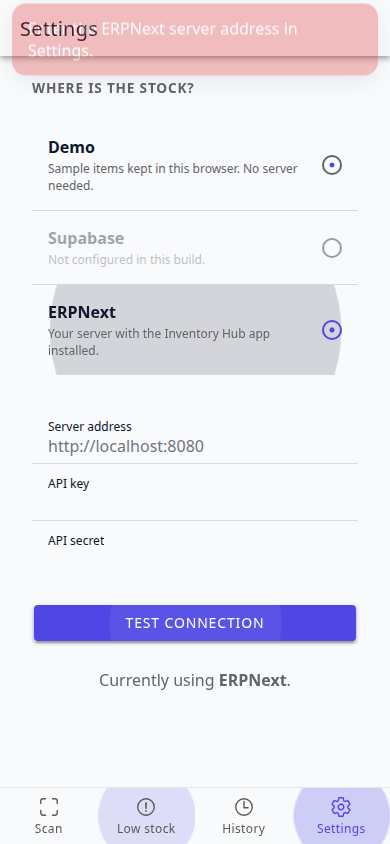
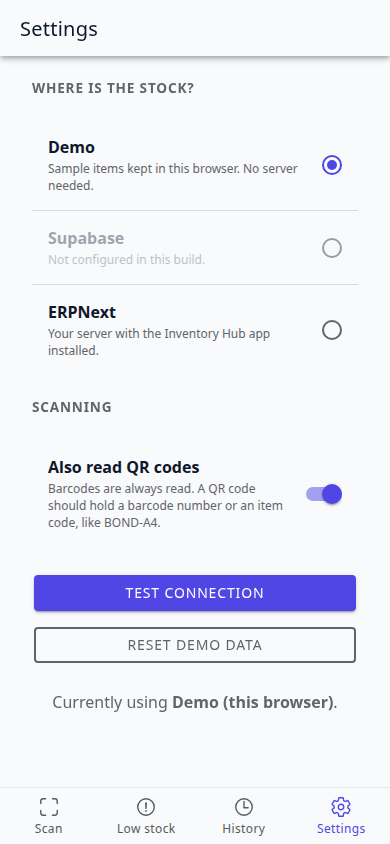
Add an opt-in "Also read QR codes" setting, with a printable QR sheet and tests

diff --git a/src/components/Scanner.tsx b/src/components/Scanner.tsx
@@ -1,8 +1,10 @@
 import { IonButton, IonIcon } from "@ionic/react";
 import { BrowserMultiFormatReader, type IScannerControls } from "@zxing/browser";
-import { BarcodeFormat, DecodeHintType } from "@zxing/library";
+import { DecodeHintType } from "@zxing/library";
 import { cameraOutline } from "ionicons/icons";
 import { useEffect, useRef, useState } from "react";
+import { scanFormats } from "../lib/formats";
+import "../lib/zxingQuiet";
 
 // A live camera preview that reads barcodes with ZXing (pure JavaScript, so it works in any
 // browser, including iPhone Safari, where the native BarcodeDetector API doesn't exist).
@@ -17,26 +19,11 @@ const MESSAGES: Record<Exclude<Status, "scanning">, string> = {
   error: "The camera couldn't be started.",
 };
 
-// The formats products carry. Restricting them makes decoding faster and avoids false reads
-// (QR codes are left out on purpose: this app reads product barcodes).
-const HINTS = new Map<DecodeHintType, unknown>([
-  [
-    DecodeHintType.POSSIBLE_FORMATS,
-    [
-      BarcodeFormat.EAN_13,
-      BarcodeFormat.EAN_8,
-      BarcodeFormat.UPC_A,
-      BarcodeFormat.UPC_E,
-      BarcodeFormat.CODE_128,
-      BarcodeFormat.CODE_39,
-    ],
-  ],
-  [DecodeHintType.TRY_HARDER, true],
-]);
-
 const SAME_CODE_COOLDOWN_MS = 2500;
 
 interface Props {
+  /** Also look for QR codes (they hold a barcode number or an item code). */
+  readQr?: boolean;
   /** Only runs the camera while true, so it is off when the tab isn't on screen. */
   active: boolean;
   onDetected: (code: string) => void;
@@ -49,7 +36,7 @@ function classify(error: unknown): Status {
   return "error";
 }
 
-export default function Scanner({ active, onDetected }: Props) {
+export default function Scanner({ active, readQr = false, onDetected }: Props) {
   const videoRef = useRef<HTMLVideoElement>(null);
   const [status, setStatus] = useState<Status>("starting");
   const [attempt, setAttempt] = useState(0);
@@ -72,7 +59,11 @@ export default function Scanner({ active, onDetected }: Props) {
     let last = { code: "", at: 0 };
     setStatus("starting");
 
-    const reader = new BrowserMultiFormatReader(HINTS, { delayBetweenScanAttempts: 120 });
+    const hints = new Map<DecodeHintType, unknown>([
+      [DecodeHintType.POSSIBLE_FORMATS, scanFormats(readQr)],
+      [DecodeHintType.TRY_HARDER, true],
+    ]);
+    const reader = new BrowserMultiFormatReader(hints, { delayBetweenScanAttempts: 120 });
     reader
       .decodeFromConstraints({ video: { facingMode: { ideal: "environment" } } }, videoRef.current!, (result) => {
         if (!result) return; // called on every frame that has no barcode in it
@@ -97,7 +88,7 @@ export default function Scanner({ active, onDetected }: Props) {
       cancelled = true;
       controls?.stop();
     };
-  }, [active, attempt]);
+  }, [active, attempt, readQr]);
 
   return (
     <div className="scanner">
@@ -119,7 +110,7 @@ export default function Scanner({ active, onDetected }: Props) {
         )}
       </div>
       <p className="scanner-status" data-testid="scanner-status" data-status={status} aria-live="polite">
-        {status === "scanning" ? "Point the camera at a barcode" : MESSAGES[status]}
+        {status === "scanning" ? `Point the camera at a barcode${readQr ? " or QR code" : ""}` : MESSAGES[status]}
       </p>
     </div>
   );

diff --git a/src/pages/SettingsPage.tsx b/src/pages/SettingsPage.tsx
@@ -1,4 +1,4 @@
-import { IonButton, IonInput, IonItem, IonList, IonRadio, IonRadioGroup } from "@ionic/react";
+import { IonButton, IonInput, IonItem, IonList, IonRadio, IonRadioGroup, IonToggle } from "@ionic/react";
 import { useState } from "react";
 import Page from "../components/Page";
 import { createBackend, supabaseAvailable } from "../lib/backends";
@@ -105,6 +105,23 @@ export default function SettingsPage() {
           </IonItem>
         </IonList>
       )}
+
+      <h3 className="section-title">Scanning</h3>
+      <IonList inset lines="full">
+        <IonItem>
+          <IonToggle
+            checked={settings.qr}
+            justify="space-between"
+            data-testid="qr-toggle"
+            onIonChange={(e) => saveSettings({ ...settings, qr: e.detail.checked })}
+          >
+            <div className="radio-label">
+              <strong>Also read QR codes</strong>
+              <small>Barcodes are always read. A QR code should hold a barcode number or an item code, like BOND-A4.</small>
+            </div>
+          </IonToggle>
+        </IonItem>
+      </IonList>
 
       <div className="settings-actions">
         <IonButton expand="block" onClick={testConnection} disabled={testing} data-testid="test-connection">

diff --git a/src/lib/settings.ts b/src/lib/settings.ts
@@ -6,11 +6,13 @@ import type { BackendId } from "./types";
 
 export interface Settings {
   backend: BackendId;
+  /** Also read QR codes with the camera (product barcodes are always read). */
+  qr: boolean;
   erp: { url: string; key: string; secret: string };
 }
 
 const KEY = "stockscan:settings";
-const DEFAULTS: Settings = { backend: defaultBackend, erp: { url: "", key: "", secret: "" } };
+const DEFAULTS: Settings = { backend: defaultBackend, qr: false, erp: { url: "", key: "", secret: "" } };
 
 const listeners = new Set<() => void>();
 let cachedRaw: string | null | undefined;
@@ -30,7 +32,7 @@ function parse(raw: string | null): Settings {
     const value = JSON.parse(raw) as Partial<Settings>;
     // A saved "supabase" choice is meaningless in a build that has no Supabase credentials.
     const backend = value.backend === "supabase" && !supabaseAvailable ? defaultBackend : value.backend;
-    return { backend: backend ?? DEFAULTS.backend, erp: { ...DEFAULTS.erp, ...value.erp } };
+    return { backend: backend ?? DEFAULTS.backend, qr: value.qr === true, erp: { ...DEFAULTS.erp, ...value.erp } };
   } catch {
     return DEFAULTS;
   }

diff --git a/src/pages/ScanPage.tsx b/src/pages/ScanPage.tsx
@@ -7,11 +7,13 @@ import Scanner from "../components/Scanner";
 import { addHistory } from "../lib/history";
 import { beep } from "../lib/sound";
 import { NotFoundError, type ItemInfo } from "../lib/types";
+import { useSettings } from "../lib/settings";
 import { useBackend } from "../lib/useBackend";
 import { useIsActive } from "../lib/useIsActive";
 
 export default function ScanPage() {
   const backend = useBackend();
+  const { qr } = useSettings();
   const [item, setItem] = useState<ItemInfo | null>(null);
   const [missing, setMissing] = useState<string | null>(null);
   const [error, setError] = useState<string | null>(null);
@@ -63,7 +65,7 @@ export default function ScanPage() {
 
   return (
     <Page title="Scan">
-      <Scanner active={cameraOn} onDetected={lookup} />
+      <Scanner active={cameraOn} readQr={qr} onDetected={lookup} />
 
       <div className="manual">
         <IonInput

diff --git a/src/lib/formats.test.ts b/src/lib/formats.test.ts
@@ -1,0 +1,22 @@
+import { BarcodeFormat } from "@zxing/library";
+import { describe, expect, it } from "vitest";
+import { PRODUCT_FORMATS, scanFormats } from "./formats";
+
+describe("scanFormats", () => {
+  it("reads product barcodes only by default", () => {
+    expect(scanFormats(false)).toEqual(PRODUCT_FORMATS);
+    expect(scanFormats(false)).not.toContain(BarcodeFormat.QR_CODE);
+    expect(scanFormats(false)).toContain(BarcodeFormat.EAN_13);
+  });
+
+  it("adds QR codes on top of the product barcodes when asked", () => {
+    const formats = scanFormats(true);
+    expect(formats).toContain(BarcodeFormat.QR_CODE);
+    for (const f of PRODUCT_FORMATS) expect(formats).toContain(f);
+  });
+
+  it("doesn't change the default list when QR is on", () => {
+    scanFormats(true);
+    expect(PRODUCT_FORMATS).not.toContain(BarcodeFormat.QR_CODE);
+  });
+});

diff --git a/src/lib/formats.ts b/src/lib/formats.ts
@@ -1,0 +1,19 @@
+import { BarcodeFormat } from "@zxing/library";
+
+// The formats products carry. Restricting them makes decoding faster and avoids false reads.
+export const PRODUCT_FORMATS: BarcodeFormat[] = [
+  BarcodeFormat.EAN_13,
+  BarcodeFormat.EAN_8,
+  BarcodeFormat.UPC_A,
+  BarcodeFormat.UPC_E,
+  BarcodeFormat.CODE_128,
+  BarcodeFormat.CODE_39,
+];
+
+/**
+ * What the camera should look for. QR codes are opt-in (Settings > "Also read QR codes"): looking for
+ * them makes every frame slower to decode, and ZXing's QR reader logs a warning on frames without one.
+ */
+export function scanFormats(readQr: boolean): BarcodeFormat[] {
+  return readQr ? [...PRODUCT_FORMATS, BarcodeFormat.QR_CODE] : PRODUCT_FORMATS;
+}

diff --git a/src/lib/zxingQuiet.ts b/src/lib/zxingQuiet.ts
@@ -1,0 +1,10 @@
+// ZXing's MultiFormatReader prints "MultiFormatReader: non-ReaderException from reader" for every camera
+// frame that has no QR code in it. It's a library quirk (its exception classes fail `instanceof` after
+// being compiled to ES5), not a real problem, but at several frames a second it buries the console.
+// Only that one message is dropped; every other warning still goes through.
+const original = console.warn;
+
+console.warn = (...args: unknown[]) => {
+  if (typeof args[0] === "string" && args[0].startsWith("MultiFormatReader: non-ReaderException")) return;
+  original.apply(console, args);
+};

diff --git a/e2e/make-camera-videos.py b/e2e/make-camera-videos.py
@@ -3,7 +3,7 @@
 Each video is a short MJPEG clip of one EAN-13 barcode held in front of a beige background, like
 someone holding a product up to the camera.
 
-    pip install python-barcode pillow
+    pip install python-barcode pillow qrcode
     python3 e2e/make-camera-videos.py
 """
 
@@ -54,6 +54,29 @@ def make_video(name: str, digits: str) -> None:
     print("wrote", OUT / f"{name}.mjpeg")
 
 
+def make_qr_video(name: str, text: str) -> None:
+    """A QR code holding an item code, for the "Also read QR codes" test."""
+    import qrcode
+
+    width, height = 640, 480
+    qr = qrcode.QRCode(error_correction=qrcode.constants.ERROR_CORRECT_M, box_size=9, border=4)
+    qr.add_data(text)
+    qr.make(fit=True)
+    code = qr.make_image(fill_color="black", back_color="white").convert("RGB")
+
+    random.seed(2)
+    with open(OUT / f"{name}.mjpeg", "wb") as out:
+        for _ in range(20):
+            frame = Image.new("RGB", (width, height), (176, 168, 152))
+            jitter = (random.randint(-3, 3), random.randint(-3, 3))
+            frame.paste(code, ((width - code.width) // 2 + jitter[0], (height - code.height) // 2 + jitter[1]))
+            jpeg = io.BytesIO()
+            frame.filter(ImageFilter.GaussianBlur(0.4)).save(jpeg, "JPEG", quality=90)
+            out.write(jpeg.getvalue())
+    print("wrote", OUT / f"{name}.mjpeg")
+
+
 if __name__ == "__main__":
     for video, digits in VIDEOS.items():
         make_video(video, digits)
+    make_qr_video("qr", "BOND-A4")  # a QR code holding the item code

diff --git a/README.md b/README.md
@@ -20,7 +20,7 @@ The demo catalogue is the same 12 items, barcodes and quantities in all three, s
 
 ## Features
 
-- **Camera scanning** with [ZXing](https://github.com/zxing-js/library), so it works in any browser (it doesn't depend on the `BarcodeDetector` API, which iPhone Safari lacks). Reads EAN-13, EAN-8, UPC-A, UPC-E, Code 128 and Code 39. Beeps and buzzes on a read.
+- **Camera scanning** with [ZXing](https://github.com/zxing-js/library), so it works in any browser (it doesn't depend on the `BarcodeDetector` API, which iPhone Safari lacks). Reads EAN-13, EAN-8, UPC-A, UPC-E, Code 128 and Code 39, and **QR codes too if you turn them on** in Settings ("Also read QR codes"; off by default). Beeps and buzzes on a read.
 - **Hardware scanners work too.** A USB or Bluetooth scanner types digits and presses Enter, so the type-a-barcode box handles it.
 - **Add or remove stock** per warehouse with a stepper. The app refuses to remove more than is on hand.
 - **Low-stock tab** with pull-to-refresh, worst first.
@@ -49,6 +49,8 @@ A printable sheet with all 12 barcodes is in [`docs/demo-barcodes.png`](docs/dem
 | Alcohol 70% 500ml | `4800010000122` (3 left, low) |
 
 Anything else shows "No match".
+
+**QR codes:** turn on *Settings > Also read QR codes*, then scan the codes on [`docs/demo-qr.png`](docs/demo-qr.png). A QR code should hold a barcode number or an item code (these hold the item code, like `BOND-A4`); a QR with anything else in it, like a web address, shows "No match".
 
 ## Use Supabase (shared online demo)
 
@@ -90,7 +92,7 @@ It's a static site, so it deploys anywhere. On [Vercel](https://vercel.com): imp
 ## Tests
 
 ```bash
-npm test          # 27 unit tests
+npm test          # 30 unit tests
 npm run typecheck
 ```
 
@@ -101,14 +103,14 @@ The unit tests cover the three backends (with a fake `fetch` and a fake Supabase
 `npm run e2e` drives the built app in a real browser. Chromium is started with a **fake camera** that plays a video of a barcode, so the whole flow runs for real: camera, decoding, lookup, stock change, alerts, history, PWA.
 
 ```bash
-pip install python-barcode pillow     # for the fake camera videos
+pip install python-barcode pillow qrcode   # for the fake camera videos
 python3 e2e/make-camera-videos.py     # once
 npx playwright install chromium       # once
 npm run build && npm run preview      # terminal 1
 npm run e2e                           # terminal 2
 ```
 
-It checks 19 things, among them: the camera reads a barcode and shows the item; removing more than is on hand is refused; the camera switches off when you leave the Scan tab and back on when you return; a hardware scanner (typing + Enter) works; changes survive a reload; with no camera the app says so and manual entry still works. The SQL in `supabase/schema.sql` was tested separately against PostgreSQL, including ten parallel removals of a three-unit item (exactly three succeed).
+It checks 23 things, among them: the camera reads a barcode and shows the item; removing more than is on hand is refused; the camera switches off when you leave the Scan tab and back on when you return; a hardware scanner (typing + Enter) works; QR codes are ignored until switched on, then read, without breaking ordinary barcodes; changes survive a reload; with no camera the app says so and manual entry still works. The SQL in `supabase/schema.sql` was tested separately against PostgreSQL, including ten parallel removals of a three-unit item (exactly three succeed).
 
 The Supabase backend was verified against a real Supabase project: the same fake-camera scan, a stock change, a refusal, and a second browser with its own storage seeing the first one's change (the data is shared online). The database checks were run live as well: direct writes with the browser key are refused by row level security, `inv_seed()` can't be called from the browser, and ten parallel removals of a three-unit item let exactly three through.
 
@@ -132,12 +134,13 @@ e2e/                    fake-camera end-to-end test
 Two things worth knowing, both found by the end-to-end test:
 
 - **Tabs decide for themselves whether they're visible.** Ionic keeps every tab mounted, and its `useIonViewWillEnter`-style hooks don't fire on tab switches with React Router 6, so `useIsActive` reads the router location instead. That is what turns the camera off and refreshes the Low stock tab.
+- **ZXing's QR reader logs a warning for every frame without a QR code** (its exception classes fail `instanceof` when compiled to ES5), which buries the console at several frames a second. `zxingQuiet.ts` drops that one message and lets every other warning through; the end-to-end test fails if it ever leaks again.
 - **The toast is a plain element**, not Ionic's `IonToast`: replacing an open `IonToast` with a new one crashed the whole React tree (a blank screen), and Ionic's `useIonToast` hook ignores a new toast while one is showing, which hid errors that arrive right after a success. An error boundary now catches anything else and offers a reload.
 
 ## Limits
 
 - Tested in Chromium (desktop and a phone-sized window). ZXing runs in any browser, but I haven't tried iOS Safari or a physical phone camera; real cameras also need decent light and a steady hand.
-- No QR codes: it reads product barcodes.
+- QR codes are opt-in and only useful if they hold a barcode number or an item code. The QR reader is slower per frame, which is why it is off by default.
 - The Supabase demo is public: anyone can change or reset the stock.
 - The JavaScript bundle is large (about 425 kB gzipped, mostly Ionic and ZXing); the service worker caches it after the first load.
 - `npm audit` reports two moderate advisories in `react-router` 6 (an open redirect through user-supplied links, and SSR hydration). Neither applies here: the app has no server rendering and never navigates to a user-supplied address. The fix needs `react-router` 8, which Ionic's router doesn't support yet.
